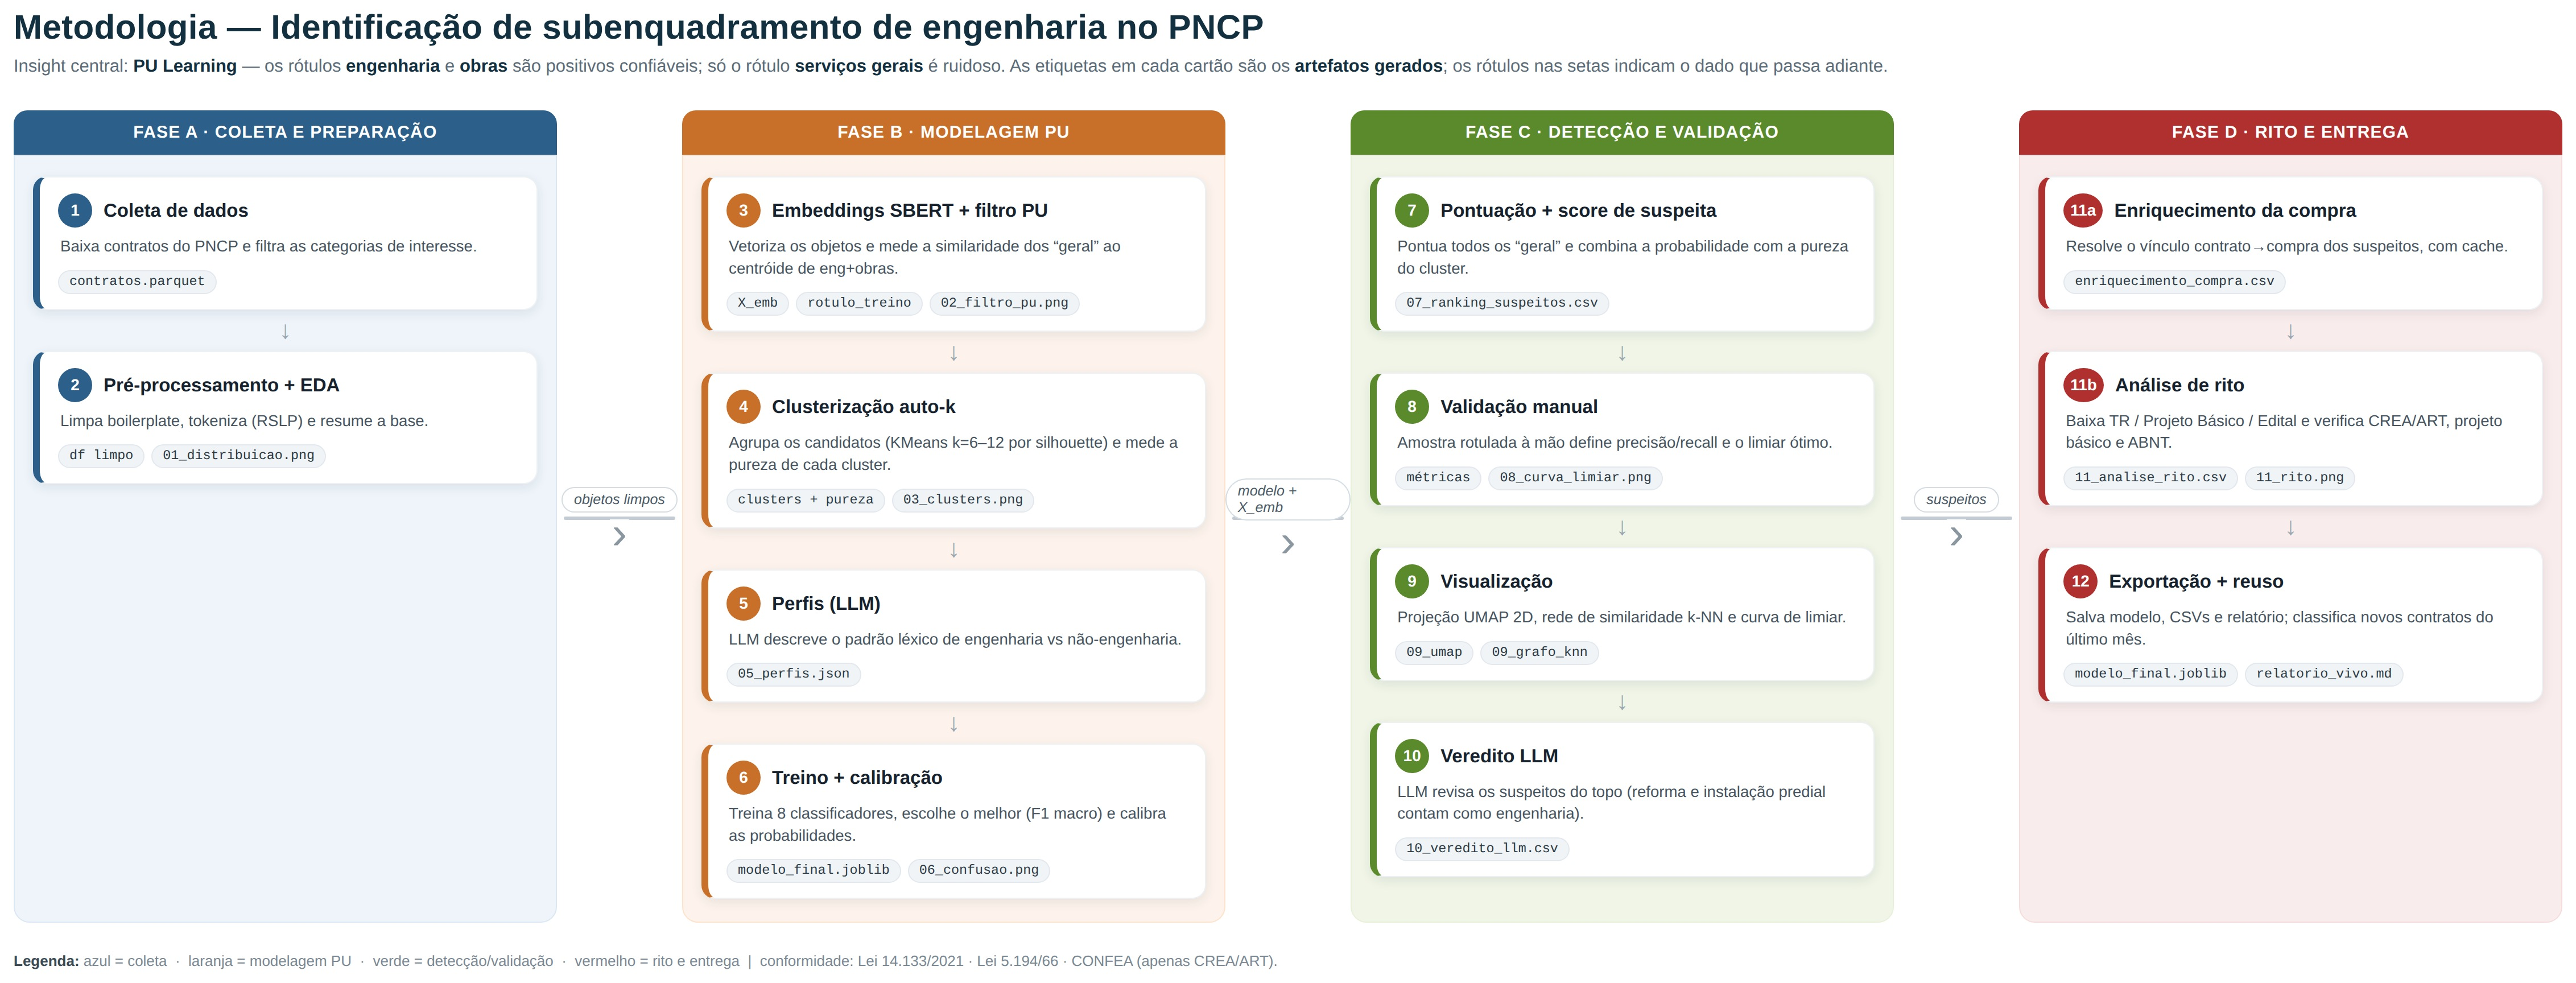
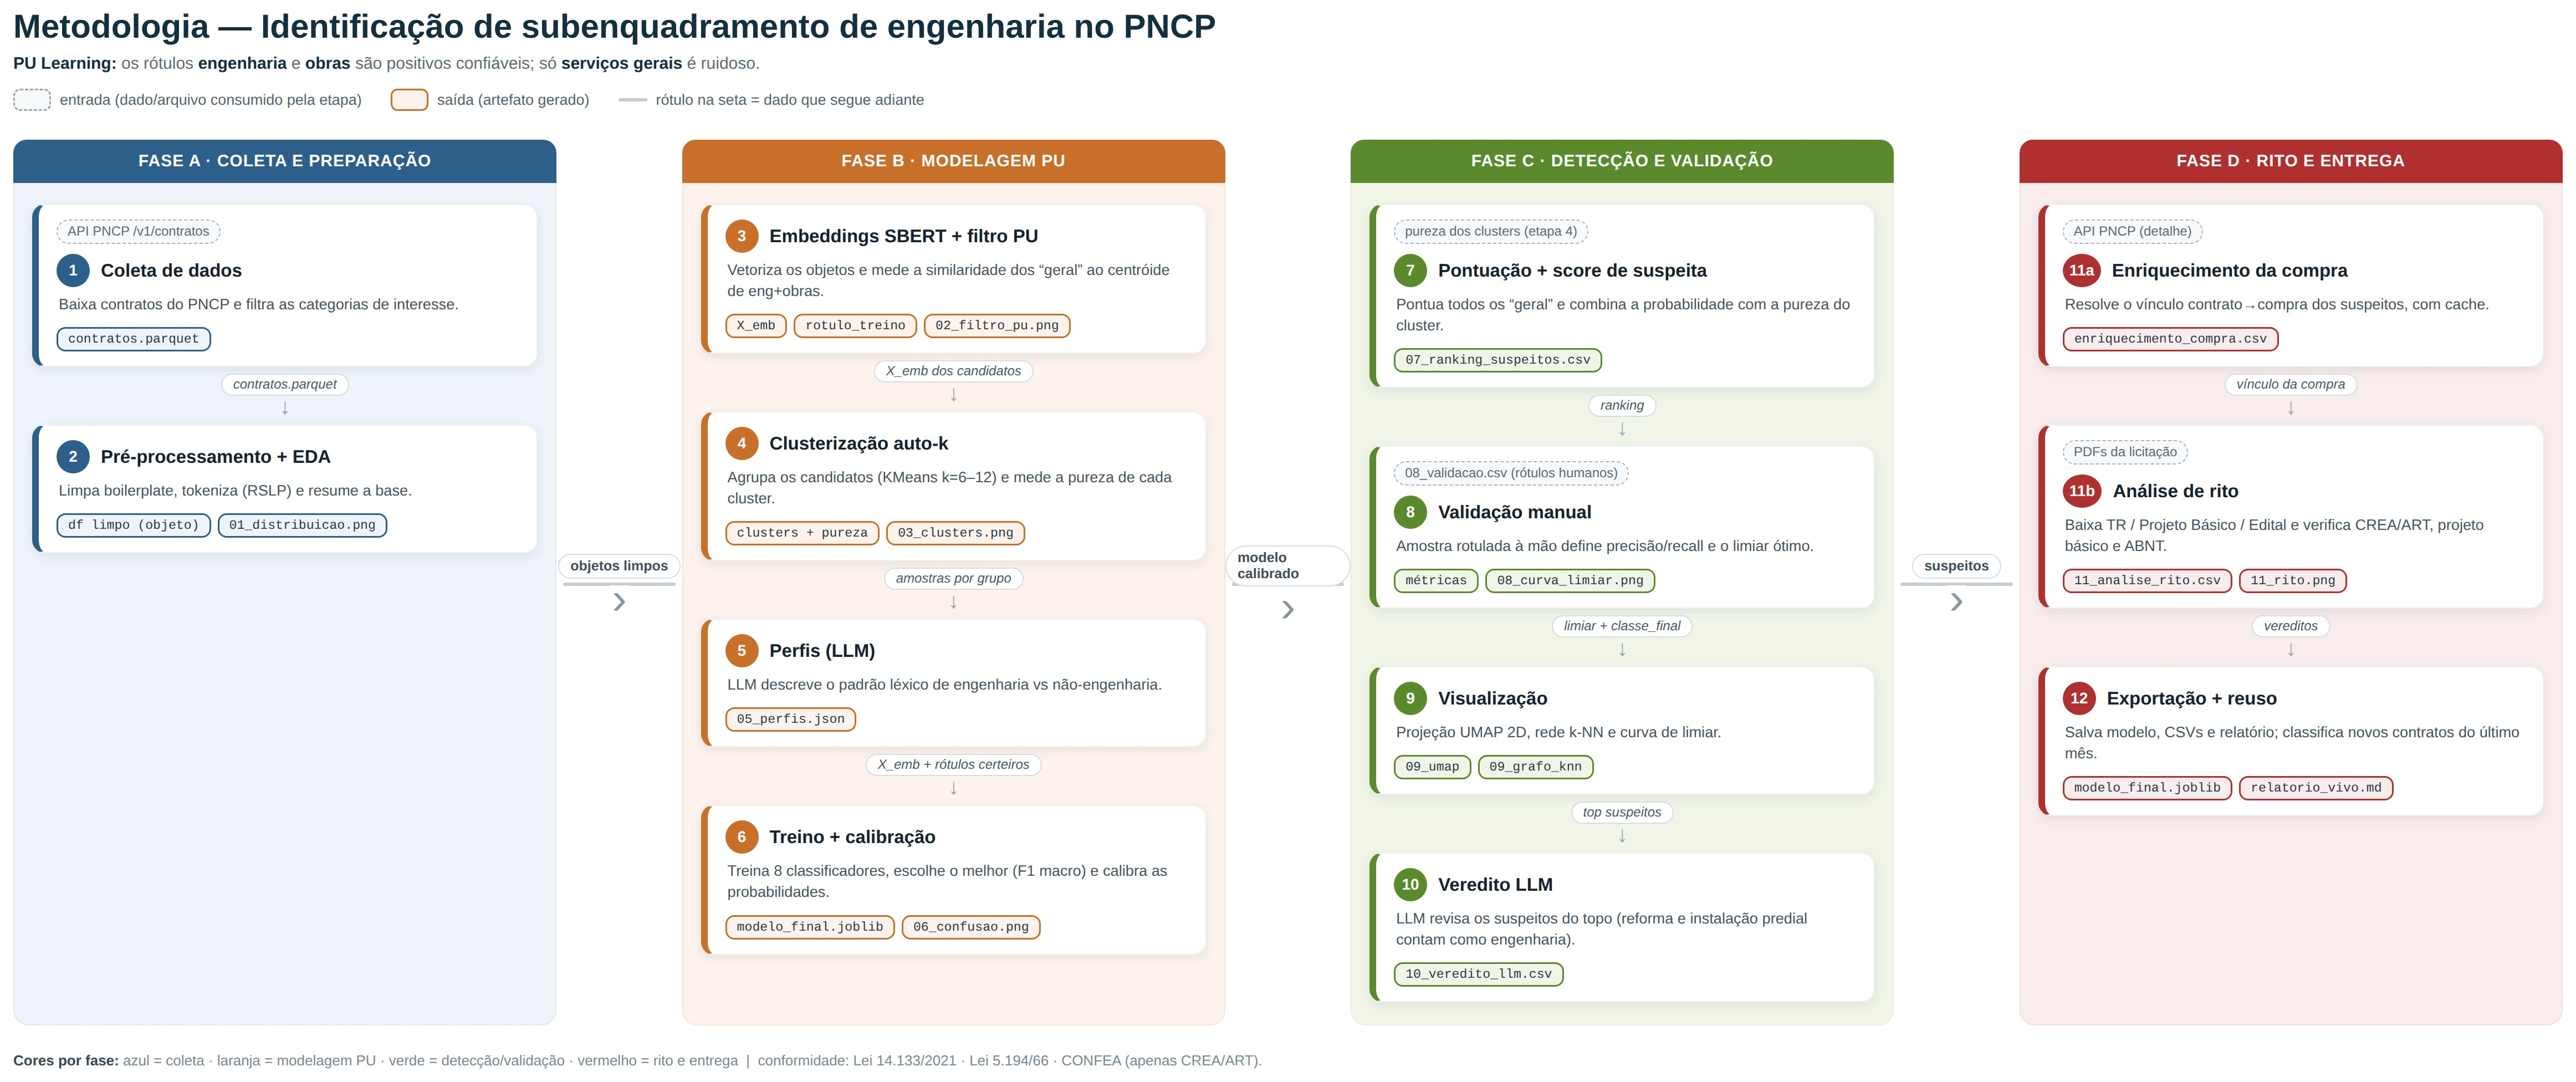
Diagrama: entrada/saída explícitas por design (sem rótulos textuais)
- Legenda de codificação visual: tracejado=entrada consumida, colorido=saída
  (artefato), rótulo na seta=dado que segue adiante
- Entradas externas como chips tracejados no topo do cartão (API PNCP,
  08_validacao.csv, PDFs da licitação, e 'pureza dos clusters (etapa 4)' na
  etapa 7 — deixando explícito que os clusters alimentam o score)
- Saídas como chips coloridos no rodapé; setas verticais rotuladas com o dado

Claude-Session: https://claude.ai/code/session_01HtqYJTmbTnSMnsAupBfRo2

diff --git a/docs/metodologia.html b/docs/metodologia.html
@@ -1,125 +1,128 @@
-<!doctype html><html lang="pt-br"><head><meta charset="utf-8">
-<style>
+<!doctype html><html lang="pt-br"><head><meta charset="utf-8"><style>
 *{box-sizing:border-box;margin:0;padding:0}
-body{font-family:"Segoe UI",-apple-system,"Helvetica Neue",Arial,sans-serif;
-  background:#ffffff;color:#1f2933;padding:44px 40px 48px;width:2320px}
-h1{font-size:30px;font-weight:800;color:#12303f;letter-spacing:.2px}
-.sub{font-size:15.5px;color:#5b6b78;margin:8px 0 30px}
-.sub b{color:#12303f}
-.board{display:flex;align-items:stretch;gap:0}
+body{font-family:"Segoe UI",-apple-system,"Helvetica Neue",Arial,sans-serif;background:#fff;color:#1f2933;padding:44px 40px 46px;width:2380px}
+h1{font-size:30px;font-weight:800;color:#12303f}
+.sub{font-size:15px;color:#5b6b78;margin:8px 0 14px} .sub b{color:#12303f}
+.leg{display:flex;gap:26px;align-items:center;font-size:13.5px;color:#54636e;margin-bottom:26px;flex-wrap:wrap}
+.leg .k{display:inline-flex;align-items:center;gap:8px}
+.sw{width:34px;height:20px;border-radius:6px;display:inline-block}
+.sw.in{background:#f7f9fb;border:1.6px dashed #9aa7b1}
+.sw.out{background:#fdf3ec;border:1.6px solid #c8702a}
+.sw.ar{width:26px;height:0;border-top:3px solid #c3ccd4;position:relative}
+.board{display:flex;align-items:stretch}
 .phase{display:flex;flex-direction:column;width:520px}
-.phead{color:#fff;font-weight:800;font-size:15px;letter-spacing:.6px;
-  padding:11px 16px;border-radius:12px 12px 0 0;text-align:center}
-.pbody{flex:1;border-radius:0 0 14px 14px;padding:18px 16px 20px;
-  display:flex;flex-direction:column}
-.card{background:#fff;border-radius:12px;padding:14px 16px 13px;
-  box-shadow:0 3px 10px rgba(20,40,60,.09);border:1px solid #eef1f4}
-.chead{display:flex;align-items:center;gap:10px;margin-bottom:7px}
-.badge{color:#fff;font-weight:800;font-size:14px;min-width:30px;height:30px;
-  border-radius:50%;display:flex;align-items:center;justify-content:center;
-  padding:0 6px}
+.phead{color:#fff;font-weight:800;font-size:15px;letter-spacing:.5px;padding:11px 16px;border-radius:12px 12px 0 0;text-align:center}
+.pbody{flex:1;border-radius:0 0 14px 14px;padding:18px 16px 20px;display:flex;flex-direction:column}
+.card{background:#fff;border-radius:12px;padding:13px 16px;box-shadow:0 3px 10px rgba(20,40,60,.09);border:1px solid #eef1f4}
+.inrow{display:flex;flex-wrap:wrap;gap:6px;margin-bottom:9px}
+.cin{font-size:12px;color:#5b6b78;background:#f7f9fb;border:1.4px dashed #a8b4bd;padding:3px 9px;border-radius:999px}
+.chead{display:flex;align-items:center;gap:10px;margin-bottom:6px}
+.badge{color:#fff;font-weight:800;font-size:14px;min-width:30px;height:30px;border-radius:50%;display:flex;align-items:center;justify-content:center;padding:0 6px}
 .ctitle{font-size:16.5px;font-weight:700;color:#16232e;line-height:1.15}
-.cdesc{font-size:13.8px;color:#46545f;line-height:1.4;margin:2px 2px 11px}
-.pills{display:flex;flex-wrap:wrap;gap:6px}
-.pill{font-family:"Consolas","SF Mono",monospace;font-size:11.7px;
-  background:#f1f4f7;color:#2b3a45;border:1px solid #e2e8ee;
-  padding:3px 9px;border-radius:999px;white-space:nowrap}
-.vconn{text-align:center;color:#9aa7b1;font-size:22px;line-height:1;
-  margin:7px 0}
-.hconn{display:flex;flex-direction:column;align-items:center;justify-content:center;
-  width:120px;position:relative}
-.arrowline{position:absolute;top:50%;left:6px;right:6px;height:3px;
-  background:#c3ccd4;border-radius:2px}
-.hlabel{position:relative;background:#fff;border:1px solid #d5dde3;
-  color:#4a5a66;font-size:12.5px;font-style:italic;padding:3px 10px;
-  border-radius:999px;margin-bottom:6px;z-index:2}
-.chev{position:relative;color:#8a97a1;font-size:40px;line-height:.6;z-index:2;
-  background:#fff;padding:0 2px}
-.foot{margin-top:26px;font-size:13px;color:#7a8893}
-.foot b{color:#3a4a55}
+.cdesc{font-size:13.6px;color:#46545f;line-height:1.4;margin:2px 2px 11px}
+.outrow{display:flex;flex-wrap:wrap;gap:6px}
+.pill{font-family:"Consolas","SF Mono",monospace;font-size:11.6px;color:#2b3a45;border:1.5px solid #ccc;padding:3px 9px;border-radius:8px;white-space:nowrap}
+.vconn{display:flex;flex-direction:column;align-items:center;margin:6px 0}
+.vlabel{background:#fff;border:1px solid #d5dde3;color:#4a5a66;font-size:12px;font-style:italic;padding:2px 10px;border-radius:999px}
+.varr{color:#9aa7b1;font-size:20px;line-height:1}
+.hconn{display:flex;flex-direction:column;align-items:center;justify-content:center;width:120px;position:relative}
+.arrowline{position:absolute;top:50%;left:6px;right:6px;height:3px;background:#c3ccd4;border-radius:2px}
+.hlabel{position:relative;background:#fff;border:1px solid #d5dde3;color:#3f4f5b;font-size:12.5px;font-weight:600;padding:3px 10px;border-radius:999px;margin-bottom:6px;z-index:2}
+.chev{position:relative;color:#8a97a1;font-size:40px;line-height:.6;z-index:2;background:#fff;padding:0 2px}
+.foot{margin-top:24px;font-size:13px;color:#7a8893} .foot b{color:#3a4a55}
 </style></head><body>
 <h1>Metodologia — Identificação de subenquadramento de engenharia no PNCP</h1>
-<div class="sub">Insight central: <b>PU Learning</b> — os rótulos <b>engenharia</b> e <b>obras</b> são positivos confiáveis; só o rótulo <b>serviços gerais</b> é ruidoso. As etiquetas em cada cartão são os <b>artefatos gerados</b>; os rótulos nas setas indicam o dado que passa adiante.</div>
-<div class="board"><div class="phase">
-      <div class="phead" style="background:#2c5f8a">FASE A · COLETA E PREPARAÇÃO</div>
+<div class="sub"><b>PU Learning:</b> os rótulos <b>engenharia</b> e <b>obras</b> são positivos confiáveis; só <b>serviços gerais</b> é ruidoso.</div>
+<div class="leg">
+  <span class="k"><span class="sw in"></span> entrada (dado/arquivo consumido pela etapa)</span>
+  <span class="k"><span class="sw out"></span> saída (artefato gerado)</span>
+  <span class="k"><span class="sw ar"></span> rótulo na seta = dado que segue adiante</span>
+</div>
+<div class="board"><div class="phase"><div class="phead" style="background:#2c5f8a">FASE A · COLETA E PREPARAÇÃO</div>
       <div class="pbody" style="background:#eef4fa;border:1px solid #dbe7f3"><div class="card" style="border-left:6px solid #2c5f8a">
+          <div class="inrow"><span class="cin">API PNCP /v1/contratos</span></div>
           <div class="chead"><span class="badge" style="background:#2c5f8a">1</span>
             <span class="ctitle">Coleta de dados</span></div>
           <div class="cdesc">Baixa contratos do PNCP e filtra as categorias de interesse.</div>
-          <div class="pills"><span class="pill">contratos.parquet</span></div>
-        </div><div class="vconn">&#8595;</div><div class="card" style="border-left:6px solid #2c5f8a">
+          <div class="outrow"><span class="pill" style="border-color:#2c5f8a;background:#eef4fa">contratos.parquet</span></div>
+        </div><div class="vconn"><span class="vlabel">contratos.parquet</span><span class="varr">&#8595;</span></div><div class="card" style="border-left:6px solid #2c5f8a">
+          
           <div class="chead"><span class="badge" style="background:#2c5f8a">2</span>
             <span class="ctitle">Pré-processamento + EDA</span></div>
           <div class="cdesc">Limpa boilerplate, tokeniza (RSLP) e resume a base.</div>
-          <div class="pills"><span class="pill">df limpo</span><span class="pill">01_distribuicao.png</span></div>
-        </div></div>
-    </div><div class="hconn"><div class="arrowline"></div>
-          <div class="hlabel">objetos limpos</div><div class="chev">&#8250;</div></div><div class="phase">
-      <div class="phead" style="background:#c8702a">FASE B · MODELAGEM PU</div>
+          <div class="outrow"><span class="pill" style="border-color:#2c5f8a;background:#eef4fa">df limpo (objeto)</span><span class="pill" style="border-color:#2c5f8a;background:#eef4fa">01_distribuicao.png</span></div>
+        </div></div></div><div class="hconn"><div class="arrowline"></div>
+          <div class="hlabel">objetos limpos</div><div class="chev">&#8250;</div></div><div class="phase"><div class="phead" style="background:#c8702a">FASE B · MODELAGEM PU</div>
       <div class="pbody" style="background:#fdf3ec;border:1px solid #fde3cc"><div class="card" style="border-left:6px solid #c8702a">
+          
           <div class="chead"><span class="badge" style="background:#c8702a">3</span>
             <span class="ctitle">Embeddings SBERT + filtro PU</span></div>
           <div class="cdesc">Vetoriza os objetos e mede a similaridade dos “geral” ao centróide de eng+obras.</div>
-          <div class="pills"><span class="pill">X_emb</span><span class="pill">rotulo_treino</span><span class="pill">02_filtro_pu.png</span></div>
-        </div><div class="vconn">&#8595;</div><div class="card" style="border-left:6px solid #c8702a">
+          <div class="outrow"><span class="pill" style="border-color:#c8702a;background:#fdf3ec">X_emb</span><span class="pill" style="border-color:#c8702a;background:#fdf3ec">rotulo_treino</span><span class="pill" style="border-color:#c8702a;background:#fdf3ec">02_filtro_pu.png</span></div>
+        </div><div class="vconn"><span class="vlabel">X_emb dos candidatos</span><span class="varr">&#8595;</span></div><div class="card" style="border-left:6px solid #c8702a">
+          
           <div class="chead"><span class="badge" style="background:#c8702a">4</span>
             <span class="ctitle">Clusterização auto-k</span></div>
-          <div class="cdesc">Agrupa os candidatos (KMeans k=6–12 por silhouette) e mede a pureza de cada cluster.</div>
-          <div class="pills"><span class="pill">clusters + pureza</span><span class="pill">03_clusters.png</span></div>
-        </div><div class="vconn">&#8595;</div><div class="card" style="border-left:6px solid #c8702a">
+          <div class="cdesc">Agrupa os candidatos (KMeans k=6–12) e mede a pureza de cada cluster.</div>
+          <div class="outrow"><span class="pill" style="border-color:#c8702a;background:#fdf3ec">clusters + pureza</span><span class="pill" style="border-color:#c8702a;background:#fdf3ec">03_clusters.png</span></div>
+        </div><div class="vconn"><span class="vlabel">amostras por grupo</span><span class="varr">&#8595;</span></div><div class="card" style="border-left:6px solid #c8702a">
+          
           <div class="chead"><span class="badge" style="background:#c8702a">5</span>
             <span class="ctitle">Perfis (LLM)</span></div>
           <div class="cdesc">LLM descreve o padrão léxico de engenharia vs não-engenharia.</div>
-          <div class="pills"><span class="pill">05_perfis.json</span></div>
-        </div><div class="vconn">&#8595;</div><div class="card" style="border-left:6px solid #c8702a">
+          <div class="outrow"><span class="pill" style="border-color:#c8702a;background:#fdf3ec">05_perfis.json</span></div>
+        </div><div class="vconn"><span class="vlabel">X_emb + rótulos certeiros</span><span class="varr">&#8595;</span></div><div class="card" style="border-left:6px solid #c8702a">
+          
           <div class="chead"><span class="badge" style="background:#c8702a">6</span>
             <span class="ctitle">Treino + calibração</span></div>
           <div class="cdesc">Treina 8 classificadores, escolhe o melhor (F1 macro) e calibra as probabilidades.</div>
-          <div class="pills"><span class="pill">modelo_final.joblib</span><span class="pill">06_confusao.png</span></div>
-        </div></div>
-    </div><div class="hconn"><div class="arrowline"></div>
-          <div class="hlabel">modelo + X_emb</div><div class="chev">&#8250;</div></div><div class="phase">
-      <div class="phead" style="background:#5a8a2c">FASE C · DETECÇÃO E VALIDAÇÃO</div>
+          <div class="outrow"><span class="pill" style="border-color:#c8702a;background:#fdf3ec">modelo_final.joblib</span><span class="pill" style="border-color:#c8702a;background:#fdf3ec">06_confusao.png</span></div>
+        </div></div></div><div class="hconn"><div class="arrowline"></div>
+          <div class="hlabel">modelo calibrado</div><div class="chev">&#8250;</div></div><div class="phase"><div class="phead" style="background:#5a8a2c">FASE C · DETECÇÃO E VALIDAÇÃO</div>
       <div class="pbody" style="background:#f0f5e7;border:1px solid #e7f0d9"><div class="card" style="border-left:6px solid #5a8a2c">
+          <div class="inrow"><span class="cin">pureza dos clusters (etapa 4)</span></div>
           <div class="chead"><span class="badge" style="background:#5a8a2c">7</span>
             <span class="ctitle">Pontuação + score de suspeita</span></div>
           <div class="cdesc">Pontua todos os “geral” e combina a probabilidade com a pureza do cluster.</div>
-          <div class="pills"><span class="pill">07_ranking_suspeitos.csv</span></div>
-        </div><div class="vconn">&#8595;</div><div class="card" style="border-left:6px solid #5a8a2c">
+          <div class="outrow"><span class="pill" style="border-color:#5a8a2c;background:#f0f5e7">07_ranking_suspeitos.csv</span></div>
+        </div><div class="vconn"><span class="vlabel">ranking</span><span class="varr">&#8595;</span></div><div class="card" style="border-left:6px solid #5a8a2c">
+          <div class="inrow"><span class="cin">08_validacao.csv (rótulos humanos)</span></div>
           <div class="chead"><span class="badge" style="background:#5a8a2c">8</span>
             <span class="ctitle">Validação manual</span></div>
           <div class="cdesc">Amostra rotulada à mão define precisão/recall e o limiar ótimo.</div>
-          <div class="pills"><span class="pill">métricas</span><span class="pill">08_curva_limiar.png</span></div>
-        </div><div class="vconn">&#8595;</div><div class="card" style="border-left:6px solid #5a8a2c">
+          <div class="outrow"><span class="pill" style="border-color:#5a8a2c;background:#f0f5e7">métricas</span><span class="pill" style="border-color:#5a8a2c;background:#f0f5e7">08_curva_limiar.png</span></div>
+        </div><div class="vconn"><span class="vlabel">limiar + classe_final</span><span class="varr">&#8595;</span></div><div class="card" style="border-left:6px solid #5a8a2c">
+          
           <div class="chead"><span class="badge" style="background:#5a8a2c">9</span>
             <span class="ctitle">Visualização</span></div>
-          <div class="cdesc">Projeção UMAP 2D, rede de similaridade k-NN e curva de limiar.</div>
-          <div class="pills"><span class="pill">09_umap</span><span class="pill">09_grafo_knn</span></div>
-        </div><div class="vconn">&#8595;</div><div class="card" style="border-left:6px solid #5a8a2c">
+          <div class="cdesc">Projeção UMAP 2D, rede k-NN e curva de limiar.</div>
+          <div class="outrow"><span class="pill" style="border-color:#5a8a2c;background:#f0f5e7">09_umap</span><span class="pill" style="border-color:#5a8a2c;background:#f0f5e7">09_grafo_knn</span></div>
+        </div><div class="vconn"><span class="vlabel">top suspeitos</span><span class="varr">&#8595;</span></div><div class="card" style="border-left:6px solid #5a8a2c">
+          
           <div class="chead"><span class="badge" style="background:#5a8a2c">10</span>
             <span class="ctitle">Veredito LLM</span></div>
           <div class="cdesc">LLM revisa os suspeitos do topo (reforma e instalação predial contam como engenharia).</div>
-          <div class="pills"><span class="pill">10_veredito_llm.csv</span></div>
-        </div></div>
-    </div><div class="hconn"><div class="arrowline"></div>
-          <div class="hlabel">suspeitos</div><div class="chev">&#8250;</div></div><div class="phase">
-      <div class="phead" style="background:#b03030">FASE D · RITO E ENTREGA</div>
+          <div class="outrow"><span class="pill" style="border-color:#5a8a2c;background:#f0f5e7">10_veredito_llm.csv</span></div>
+        </div></div></div><div class="hconn"><div class="arrowline"></div>
+          <div class="hlabel">suspeitos</div><div class="chev">&#8250;</div></div><div class="phase"><div class="phead" style="background:#b03030">FASE D · RITO E ENTREGA</div>
       <div class="pbody" style="background:#f9ecec;border:1px solid #f6dcdc"><div class="card" style="border-left:6px solid #b03030">
+          <div class="inrow"><span class="cin">API PNCP (detalhe)</span></div>
           <div class="chead"><span class="badge" style="background:#b03030">11a</span>
             <span class="ctitle">Enriquecimento da compra</span></div>
           <div class="cdesc">Resolve o vínculo contrato→compra dos suspeitos, com cache.</div>
-          <div class="pills"><span class="pill">enriquecimento_compra.csv</span></div>
-        </div><div class="vconn">&#8595;</div><div class="card" style="border-left:6px solid #b03030">
+          <div class="outrow"><span class="pill" style="border-color:#b03030;background:#f9ecec">enriquecimento_compra.csv</span></div>
+        </div><div class="vconn"><span class="vlabel">vínculo da compra</span><span class="varr">&#8595;</span></div><div class="card" style="border-left:6px solid #b03030">
+          <div class="inrow"><span class="cin">PDFs da licitação</span></div>
           <div class="chead"><span class="badge" style="background:#b03030">11b</span>
             <span class="ctitle">Análise de rito</span></div>
           <div class="cdesc">Baixa TR / Projeto Básico / Edital e verifica CREA/ART, projeto básico e ABNT.</div>
-          <div class="pills"><span class="pill">11_analise_rito.csv</span><span class="pill">11_rito.png</span></div>
-        </div><div class="vconn">&#8595;</div><div class="card" style="border-left:6px solid #b03030">
+          <div class="outrow"><span class="pill" style="border-color:#b03030;background:#f9ecec">11_analise_rito.csv</span><span class="pill" style="border-color:#b03030;background:#f9ecec">11_rito.png</span></div>
+        </div><div class="vconn"><span class="vlabel">vereditos</span><span class="varr">&#8595;</span></div><div class="card" style="border-left:6px solid #b03030">
+          
           <div class="chead"><span class="badge" style="background:#b03030">12</span>
             <span class="ctitle">Exportação + reuso</span></div>
           <div class="cdesc">Salva modelo, CSVs e relatório; classifica novos contratos do último mês.</div>
-          <div class="pills"><span class="pill">modelo_final.joblib</span><span class="pill">relatorio_vivo.md</span></div>
-        </div></div>
-    </div></div>
-<div class="foot"><b>Legenda:</b> azul = coleta &nbsp;·&nbsp; laranja = modelagem PU &nbsp;·&nbsp; verde = detecção/validação &nbsp;·&nbsp; vermelho = rito e entrega &nbsp;|&nbsp; conformidade: Lei 14.133/2021 · Lei 5.194/66 · CONFEA (apenas CREA/ART).</div>
+          <div class="outrow"><span class="pill" style="border-color:#b03030;background:#f9ecec">modelo_final.joblib</span><span class="pill" style="border-color:#b03030;background:#f9ecec">relatorio_vivo.md</span></div>
+        </div></div></div></div>
+<div class="foot"><b>Cores por fase:</b> azul = coleta · laranja = modelagem PU · verde = detecção/validação · vermelho = rito e entrega &nbsp;|&nbsp; conformidade: Lei 14.133/2021 · Lei 5.194/66 · CONFEA (apenas CREA/ART).</div>
 </body></html>

diff --git a/docs/metodologia_build.py b/docs/metodologia_build.py
@@ -1,96 +1,109 @@
+# stage: (num, title, desc, ins[dashed=entradas externas/dados consumidos], outs[artefatos], conn_to_next)
 phases = [
- ("A · COLETA E PREPARAÇÃO", "#2c5f8a", "#eef4fa", "#dbe7f3", [
-    ("1","Coleta de dados","Baixa contratos do PNCP e filtra as categorias de interesse.",["contratos.parquet"]),
-    ("2","Pré-processamento + EDA","Limpa boilerplate, tokeniza (RSLP) e resume a base.",["df limpo","01_distribuicao.png"]),
+ ("A · COLETA E PREPARAÇÃO","#2c5f8a","#eef4fa","#dbe7f3",[
+    ("1","Coleta de dados","Baixa contratos do PNCP e filtra as categorias de interesse.",
+        ["API PNCP /v1/contratos"],["contratos.parquet"],"contratos.parquet"),
+    ("2","Pré-processamento + EDA","Limpa boilerplate, tokeniza (RSLP) e resume a base.",
+        [],["df limpo (objeto)","01_distribuicao.png"],None),
  ], "objetos limpos"),
  ("B · MODELAGEM PU","#c8702a","#fdf3ec","#fde3cc",[
-    ("3","Embeddings SBERT + filtro PU","Vetoriza os objetos e mede a similaridade dos “geral” ao centróide de eng+obras.",["X_emb","rotulo_treino","02_filtro_pu.png"]),
-    ("4","Clusterização auto-k","Agrupa os candidatos (KMeans k=6–12 por silhouette) e mede a pureza de cada cluster.",["clusters + pureza","03_clusters.png"]),
-    ("5","Perfis (LLM)","LLM descreve o padrão léxico de engenharia vs não-engenharia.",["05_perfis.json"]),
-    ("6","Treino + calibração","Treina 8 classificadores, escolhe o melhor (F1 macro) e calibra as probabilidades.",["modelo_final.joblib","06_confusao.png"]),
- ], "modelo + X_emb"),
+    ("3","Embeddings SBERT + filtro PU","Vetoriza os objetos e mede a similaridade dos “geral” ao centróide de eng+obras.",
+        [],["X_emb","rotulo_treino","02_filtro_pu.png"],"X_emb dos candidatos"),
+    ("4","Clusterização auto-k","Agrupa os candidatos (KMeans k=6–12) e mede a pureza de cada cluster.",
+        [],["clusters + pureza","03_clusters.png"],"amostras por grupo"),
+    ("5","Perfis (LLM)","LLM descreve o padrão léxico de engenharia vs não-engenharia.",
+        [],["05_perfis.json"],"X_emb + rótulos certeiros"),
+    ("6","Treino + calibração","Treina 8 classificadores, escolhe o melhor (F1 macro) e calibra as probabilidades.",
+        [],["modelo_final.joblib","06_confusao.png"],None),
+ ], "modelo calibrado"),
  ("C · DETECÇÃO E VALIDAÇÃO","#5a8a2c","#f0f5e7","#e7f0d9",[
-    ("7","Pontuação + score de suspeita","Pontua todos os “geral” e combina a probabilidade com a pureza do cluster.",["07_ranking_suspeitos.csv"]),
-    ("8","Validação manual","Amostra rotulada à mão define precisão/recall e o limiar ótimo.",["métricas","08_curva_limiar.png"]),
-    ("9","Visualização","Projeção UMAP 2D, rede de similaridade k-NN e curva de limiar.",["09_umap","09_grafo_knn"]),
-    ("10","Veredito LLM","LLM revisa os suspeitos do topo (reforma e instalação predial contam como engenharia).",["10_veredito_llm.csv"]),
+    ("7","Pontuação + score de suspeita","Pontua todos os “geral” e combina a probabilidade com a pureza do cluster.",
+        ["pureza dos clusters (etapa 4)"],["07_ranking_suspeitos.csv"],"ranking"),
+    ("8","Validação manual","Amostra rotulada à mão define precisão/recall e o limiar ótimo.",
+        ["08_validacao.csv (rótulos humanos)"],["métricas","08_curva_limiar.png"],"limiar + classe_final"),
+    ("9","Visualização","Projeção UMAP 2D, rede k-NN e curva de limiar.",
+        [],["09_umap","09_grafo_knn"],"top suspeitos"),
+    ("10","Veredito LLM","LLM revisa os suspeitos do topo (reforma e instalação predial contam como engenharia).",
+        [],["10_veredito_llm.csv"],None),
  ], "suspeitos"),
  ("D · RITO E ENTREGA","#b03030","#f9ecec","#f6dcdc",[
-    ("11a","Enriquecimento da compra","Resolve o vínculo contrato→compra dos suspeitos, com cache.",["enriquecimento_compra.csv"]),
-    ("11b","Análise de rito","Baixa TR / Projeto Básico / Edital e verifica CREA/ART, projeto básico e ABNT.",["11_analise_rito.csv","11_rito.png"]),
-    ("12","Exportação + reuso","Salva modelo, CSVs e relatório; classifica novos contratos do último mês.",["modelo_final.joblib","relatorio_vivo.md"]),
+    ("11a","Enriquecimento da compra","Resolve o vínculo contrato→compra dos suspeitos, com cache.",
+        ["API PNCP (detalhe)"],["enriquecimento_compra.csv"],"vínculo da compra"),
+    ("11b","Análise de rito","Baixa TR / Projeto Básico / Edital e verifica CREA/ART, projeto básico e ABNT.",
+        ["PDFs da licitação"],["11_analise_rito.csv","11_rito.png"],"vereditos"),
+    ("12","Exportação + reuso","Salva modelo, CSVs e relatório; classifica novos contratos do último mês.",
+        [],["modelo_final.joblib","relatorio_vivo.md"],None),
  ], None),
 ]
-
 def esc(s): return s.replace("&","&amp;").replace("<","&lt;").replace(">","&gt;")
 
-cards_cols=[]
-for title,c_strong,c_bg,c_soft,cards,handoff in phases:
-    cblocks=[]
-    for j,(num,t,desc,outs) in enumerate(cards):
-        pills="".join(f'<span class="pill">{esc(o)}</span>' for o in outs)
-        card=f'''<div class="card" style="border-left:6px solid {c_strong}">
-          <div class="chead"><span class="badge" style="background:{c_strong}">{num}</span>
+cols=[]
+for title,cs,cbg,csoft,cards,handoff in phases:
+    blocks=[]
+    for j,(num,t,desc,ins,outs,conn) in enumerate(cards):
+        inrow=""
+        if ins:
+            inch="".join(f'<span class="cin">{esc(x)}</span>' for x in ins)
+            inrow=f'<div class="inrow">{inch}</div>'
+        outch="".join(f'<span class="pill" style="border-color:{cs};background:{cbg}">{esc(o)}</span>' for o in outs)
+        blocks.append(f'''<div class="card" style="border-left:6px solid {cs}">
+          {inrow}
+          <div class="chead"><span class="badge" style="background:{cs}">{num}</span>
             <span class="ctitle">{esc(t)}</span></div>
           <div class="cdesc">{esc(desc)}</div>
-          <div class="pills">{pills}</div>
-        </div>'''
-        cblocks.append(card)
+          <div class="outrow">{outch}</div>
+        </div>''')
         if j < len(cards)-1:
-            cblocks.append('<div class="vconn">&#8595;</div>')
-    col=f'''<div class="phase">
-      <div class="phead" style="background:{c_strong}">FASE {esc(title)}</div>
-      <div class="pbody" style="background:{c_bg};border:1px solid {c_soft}">{"".join(cblocks)}</div>
-    </div>'''
-    cards_cols.append(col)
+            lbl=f'<span class="vlabel">{esc(conn)}</span>' if conn else ''
+            blocks.append(f'<div class="vconn">{lbl}<span class="varr">&#8595;</span></div>')
+    cols.append(f'''<div class="phase"><div class="phead" style="background:{cs}">FASE {esc(title)}</div>
+      <div class="pbody" style="background:{cbg};border:1px solid {csoft}">{"".join(blocks)}</div></div>''')
     if handoff is not None:
-        cards_cols.append(f'''<div class="hconn"><div class="arrowline"></div>
+        cols.append(f'''<div class="hconn"><div class="arrowline"></div>
           <div class="hlabel">{esc(handoff)}</div><div class="chev">&#8250;</div></div>''')
 
-html=f'''<!doctype html><html lang="pt-br"><head><meta charset="utf-8">
-<style>
+html=f'''<!doctype html><html lang="pt-br"><head><meta charset="utf-8"><style>
 *{{box-sizing:border-box;margin:0;padding:0}}
-body{{font-family:"Segoe UI",-apple-system,"Helvetica Neue",Arial,sans-serif;
-  background:#ffffff;color:#1f2933;padding:44px 40px 48px;width:2320px}}
-h1{{font-size:30px;font-weight:800;color:#12303f;letter-spacing:.2px}}
-.sub{{font-size:15.5px;color:#5b6b78;margin:8px 0 30px}}
-.sub b{{color:#12303f}}
-.board{{display:flex;align-items:stretch;gap:0}}
+body{{font-family:"Segoe UI",-apple-system,"Helvetica Neue",Arial,sans-serif;background:#fff;color:#1f2933;padding:44px 40px 46px;width:2380px}}
+h1{{font-size:30px;font-weight:800;color:#12303f}}
+.sub{{font-size:15px;color:#5b6b78;margin:8px 0 14px}} .sub b{{color:#12303f}}
+.leg{{display:flex;gap:26px;align-items:center;font-size:13.5px;color:#54636e;margin-bottom:26px;flex-wrap:wrap}}
+.leg .k{{display:inline-flex;align-items:center;gap:8px}}
+.sw{{width:34px;height:20px;border-radius:6px;display:inline-block}}
+.sw.in{{background:#f7f9fb;border:1.6px dashed #9aa7b1}}
+.sw.out{{background:#fdf3ec;border:1.6px solid #c8702a}}
+.sw.ar{{width:26px;height:0;border-top:3px solid #c3ccd4;position:relative}}
+.board{{display:flex;align-items:stretch}}
 .phase{{display:flex;flex-direction:column;width:520px}}
-.phead{{color:#fff;font-weight:800;font-size:15px;letter-spacing:.6px;
-  padding:11px 16px;border-radius:12px 12px 0 0;text-align:center}}
-.pbody{{flex:1;border-radius:0 0 14px 14px;padding:18px 16px 20px;
-  display:flex;flex-direction:column}}
-.card{{background:#fff;border-radius:12px;padding:14px 16px 13px;
-  box-shadow:0 3px 10px rgba(20,40,60,.09);border:1px solid #eef1f4}}
-.chead{{display:flex;align-items:center;gap:10px;margin-bottom:7px}}
-.badge{{color:#fff;font-weight:800;font-size:14px;min-width:30px;height:30px;
-  border-radius:50%;display:flex;align-items:center;justify-content:center;
-  padding:0 6px}}
+.phead{{color:#fff;font-weight:800;font-size:15px;letter-spacing:.5px;padding:11px 16px;border-radius:12px 12px 0 0;text-align:center}}
+.pbody{{flex:1;border-radius:0 0 14px 14px;padding:18px 16px 20px;display:flex;flex-direction:column}}
+.card{{background:#fff;border-radius:12px;padding:13px 16px;box-shadow:0 3px 10px rgba(20,40,60,.09);border:1px solid #eef1f4}}
+.inrow{{display:flex;flex-wrap:wrap;gap:6px;margin-bottom:9px}}
+.cin{{font-size:12px;color:#5b6b78;background:#f7f9fb;border:1.4px dashed #a8b4bd;padding:3px 9px;border-radius:999px}}
+.chead{{display:flex;align-items:center;gap:10px;margin-bottom:6px}}
+.badge{{color:#fff;font-weight:800;font-size:14px;min-width:30px;height:30px;border-radius:50%;display:flex;align-items:center;justify-content:center;padding:0 6px}}
 .ctitle{{font-size:16.5px;font-weight:700;color:#16232e;line-height:1.15}}
-.cdesc{{font-size:13.8px;color:#46545f;line-height:1.4;margin:2px 2px 11px}}
-.pills{{display:flex;flex-wrap:wrap;gap:6px}}
-.pill{{font-family:"Consolas","SF Mono",monospace;font-size:11.7px;
-  background:#f1f4f7;color:#2b3a45;border:1px solid #e2e8ee;
-  padding:3px 9px;border-radius:999px;white-space:nowrap}}
-.vconn{{text-align:center;color:#9aa7b1;font-size:22px;line-height:1;
-  margin:7px 0}}
-.hconn{{display:flex;flex-direction:column;align-items:center;justify-content:center;
-  width:120px;position:relative}}
-.arrowline{{position:absolute;top:50%;left:6px;right:6px;height:3px;
-  background:#c3ccd4;border-radius:2px}}
-.hlabel{{position:relative;background:#fff;border:1px solid #d5dde3;
-  color:#4a5a66;font-size:12.5px;font-style:italic;padding:3px 10px;
-  border-radius:999px;margin-bottom:6px;z-index:2}}
-.chev{{position:relative;color:#8a97a1;font-size:40px;line-height:.6;z-index:2;
-  background:#fff;padding:0 2px}}
-.foot{{margin-top:26px;font-size:13px;color:#7a8893}}
-.foot b{{color:#3a4a55}}
+.cdesc{{font-size:13.6px;color:#46545f;line-height:1.4;margin:2px 2px 11px}}
+.outrow{{display:flex;flex-wrap:wrap;gap:6px}}
+.pill{{font-family:"Consolas","SF Mono",monospace;font-size:11.6px;color:#2b3a45;border:1.5px solid #ccc;padding:3px 9px;border-radius:8px;white-space:nowrap}}
+.vconn{{display:flex;flex-direction:column;align-items:center;margin:6px 0}}
+.vlabel{{background:#fff;border:1px solid #d5dde3;color:#4a5a66;font-size:12px;font-style:italic;padding:2px 10px;border-radius:999px}}
+.varr{{color:#9aa7b1;font-size:20px;line-height:1}}
+.hconn{{display:flex;flex-direction:column;align-items:center;justify-content:center;width:120px;position:relative}}
+.arrowline{{position:absolute;top:50%;left:6px;right:6px;height:3px;background:#c3ccd4;border-radius:2px}}
+.hlabel{{position:relative;background:#fff;border:1px solid #d5dde3;color:#3f4f5b;font-size:12.5px;font-weight:600;padding:3px 10px;border-radius:999px;margin-bottom:6px;z-index:2}}
+.chev{{position:relative;color:#8a97a1;font-size:40px;line-height:.6;z-index:2;background:#fff;padding:0 2px}}
+.foot{{margin-top:24px;font-size:13px;color:#7a8893}} .foot b{{color:#3a4a55}}
 </style></head><body>
 <h1>Metodologia — Identificação de subenquadramento de engenharia no PNCP</h1>
-<div class="sub">Insight central: <b>PU Learning</b> — os rótulos <b>engenharia</b> e <b>obras</b> são positivos confiáveis; só o rótulo <b>serviços gerais</b> é ruidoso. As etiquetas em cada cartão são os <b>artefatos gerados</b>; os rótulos nas setas indicam o dado que passa adiante.</div>
-<div class="board">{"".join(cards_cols)}</div>
-<div class="foot"><b>Legenda:</b> azul = coleta &nbsp;·&nbsp; laranja = modelagem PU &nbsp;·&nbsp; verde = detecção/validação &nbsp;·&nbsp; vermelho = rito e entrega &nbsp;|&nbsp; conformidade: Lei 14.133/2021 · Lei 5.194/66 · CONFEA (apenas CREA/ART).</div>
+<div class="sub"><b>PU Learning:</b> os rótulos <b>engenharia</b> e <b>obras</b> são positivos confiáveis; só <b>serviços gerais</b> é ruidoso.</div>
+<div class="leg">
+  <span class="k"><span class="sw in"></span> entrada (dado/arquivo consumido pela etapa)</span>
+  <span class="k"><span class="sw out"></span> saída (artefato gerado)</span>
+  <span class="k"><span class="sw ar"></span> rótulo na seta = dado que segue adiante</span>
+</div>
+<div class="board">{"".join(cols)}</div>
+<div class="foot"><b>Cores por fase:</b> azul = coleta · laranja = modelagem PU · verde = detecção/validação · vermelho = rito e entrega &nbsp;|&nbsp; conformidade: Lei 14.133/2021 · Lei 5.194/66 · CONFEA (apenas CREA/ART).</div>
 </body></html>'''
 open('/tmp/metodologia.html','w',encoding='utf-8').write(html)
-print("html bytes:", len(html))
+print("ok", len(html))